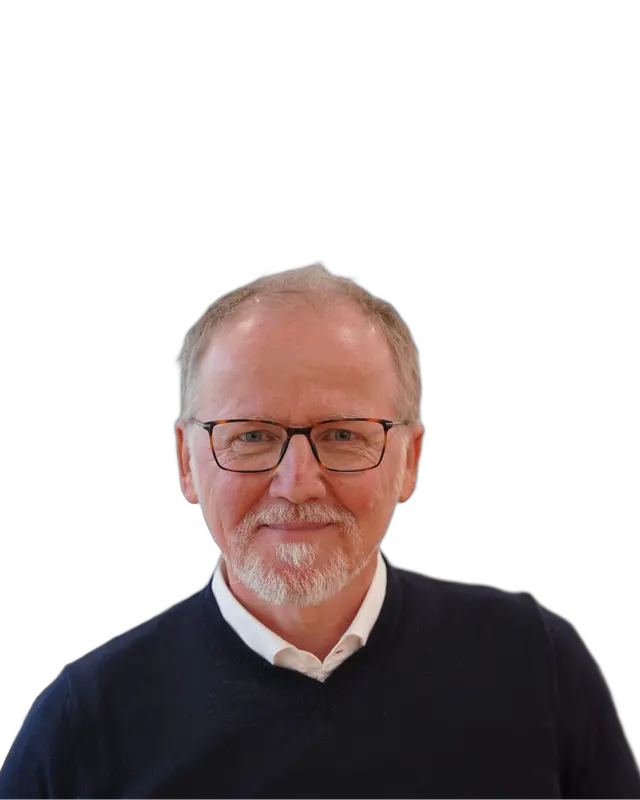
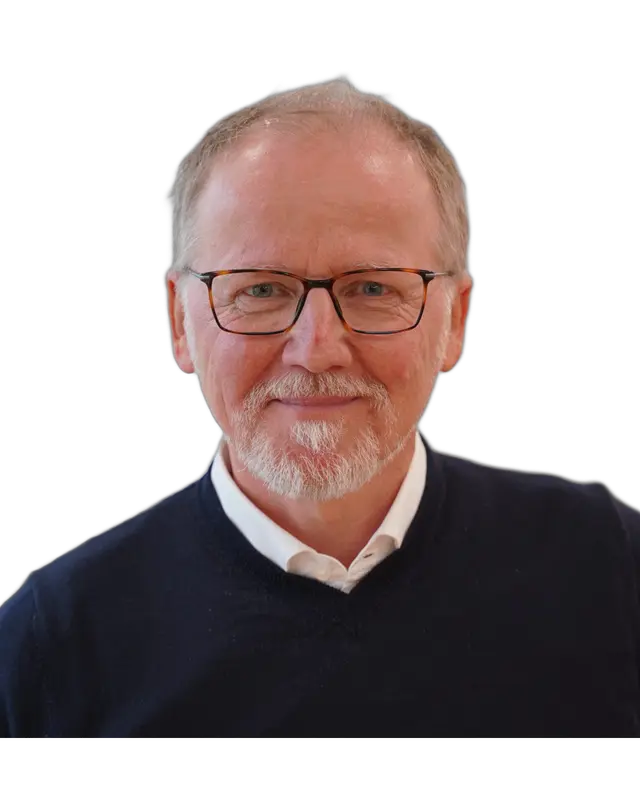
Spezialisten-Fotos: einheitliche Kopfgröße und -position
Claude-Session: https://claude.ai/code/session_01To8PypW9uZhfjcxqBRQiJB

diff --git a/index.html b/index.html
@@ -122,7 +122,7 @@ permalink: "/index.html"
 /* Team */
 .tl{display:grid;grid-template-columns:320px 1fr;background:linear-gradient(120deg,#fff 40%,var(--g100));border:1px solid var(--g200);border-radius:var(--r-lg);overflow:hidden;box-shadow:var(--sh);margin-bottom:1.4rem}
 .tl-photo{position:relative;min-height:340px;background:linear-gradient(160deg,var(--g),var(--gl))}
-.tl-photo img{position:absolute;inset:0;width:100%;height:100%;object-fit:cover;object-position:center bottom}
+.tl-photo img{position:absolute;inset:0;width:100%;height:100%;object-fit:cover;object-position:top center}
 .tl-info{padding:clamp(1.8rem,4vw,3rem);display:flex;flex-direction:column;justify-content:center}
 .tl-info .sn-person-name{font-size:2rem}
 .tl-info p{font-size:1.08rem;line-height:1.75;max-width:560px}
